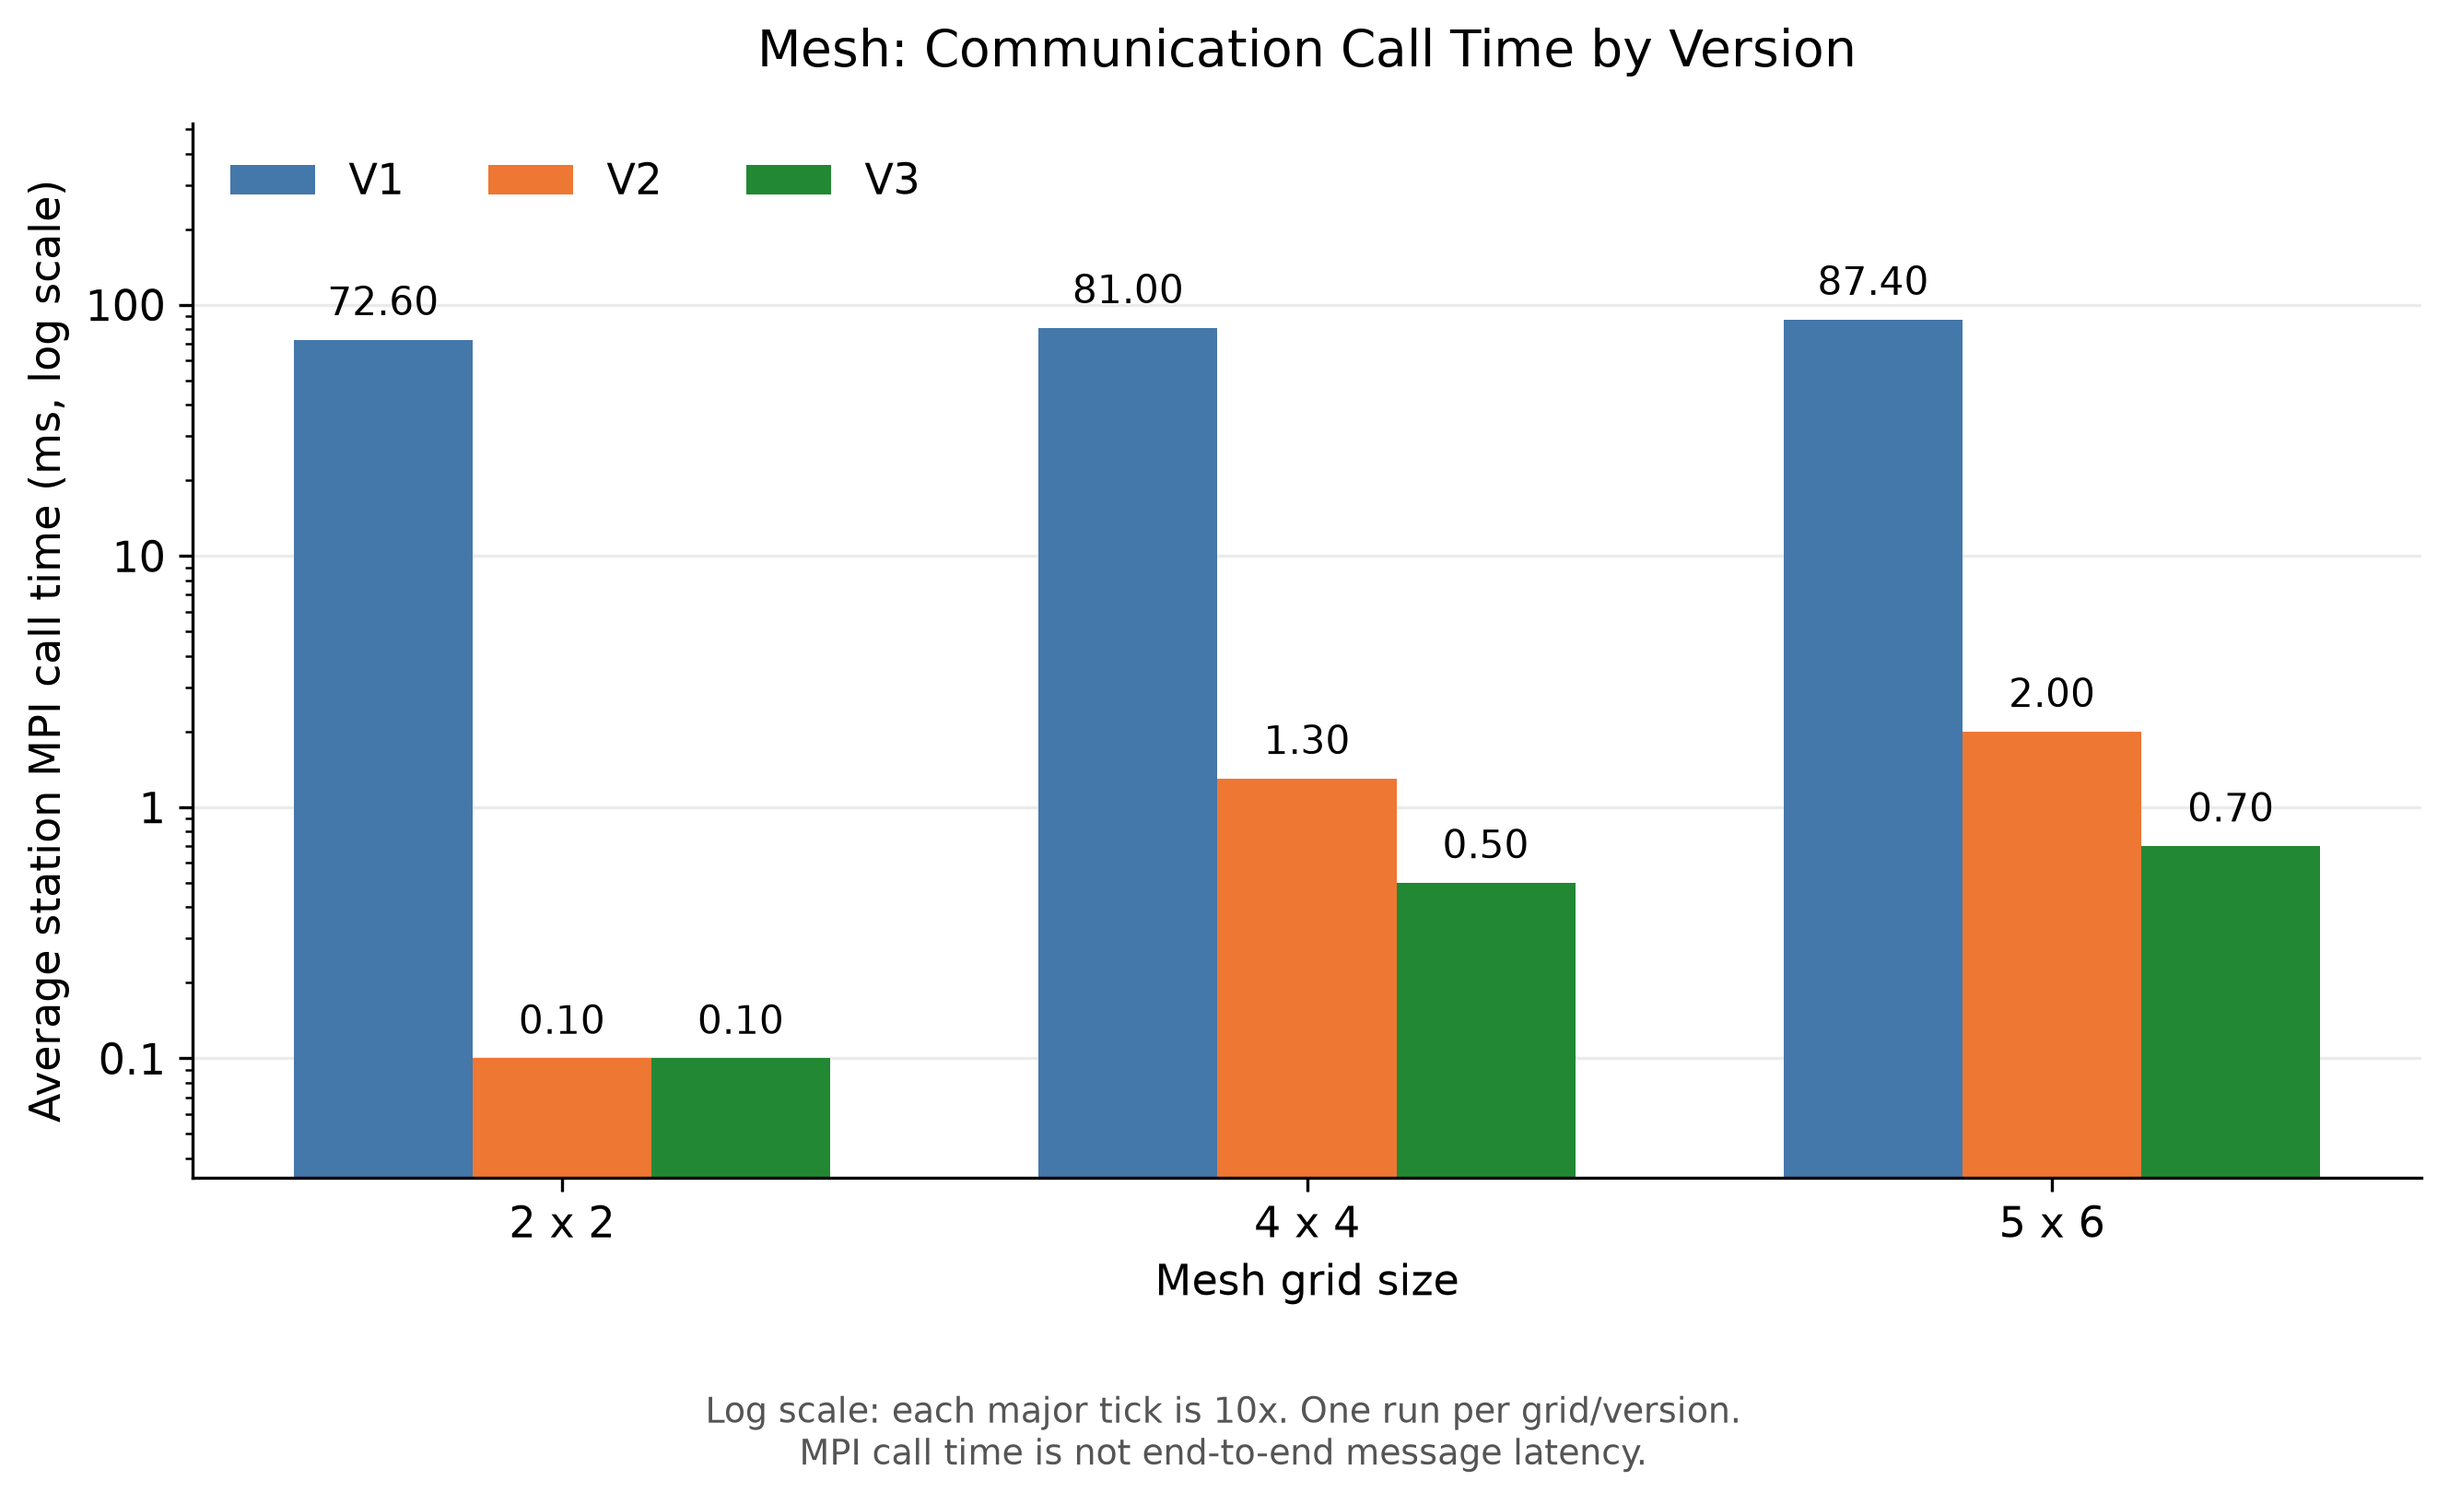
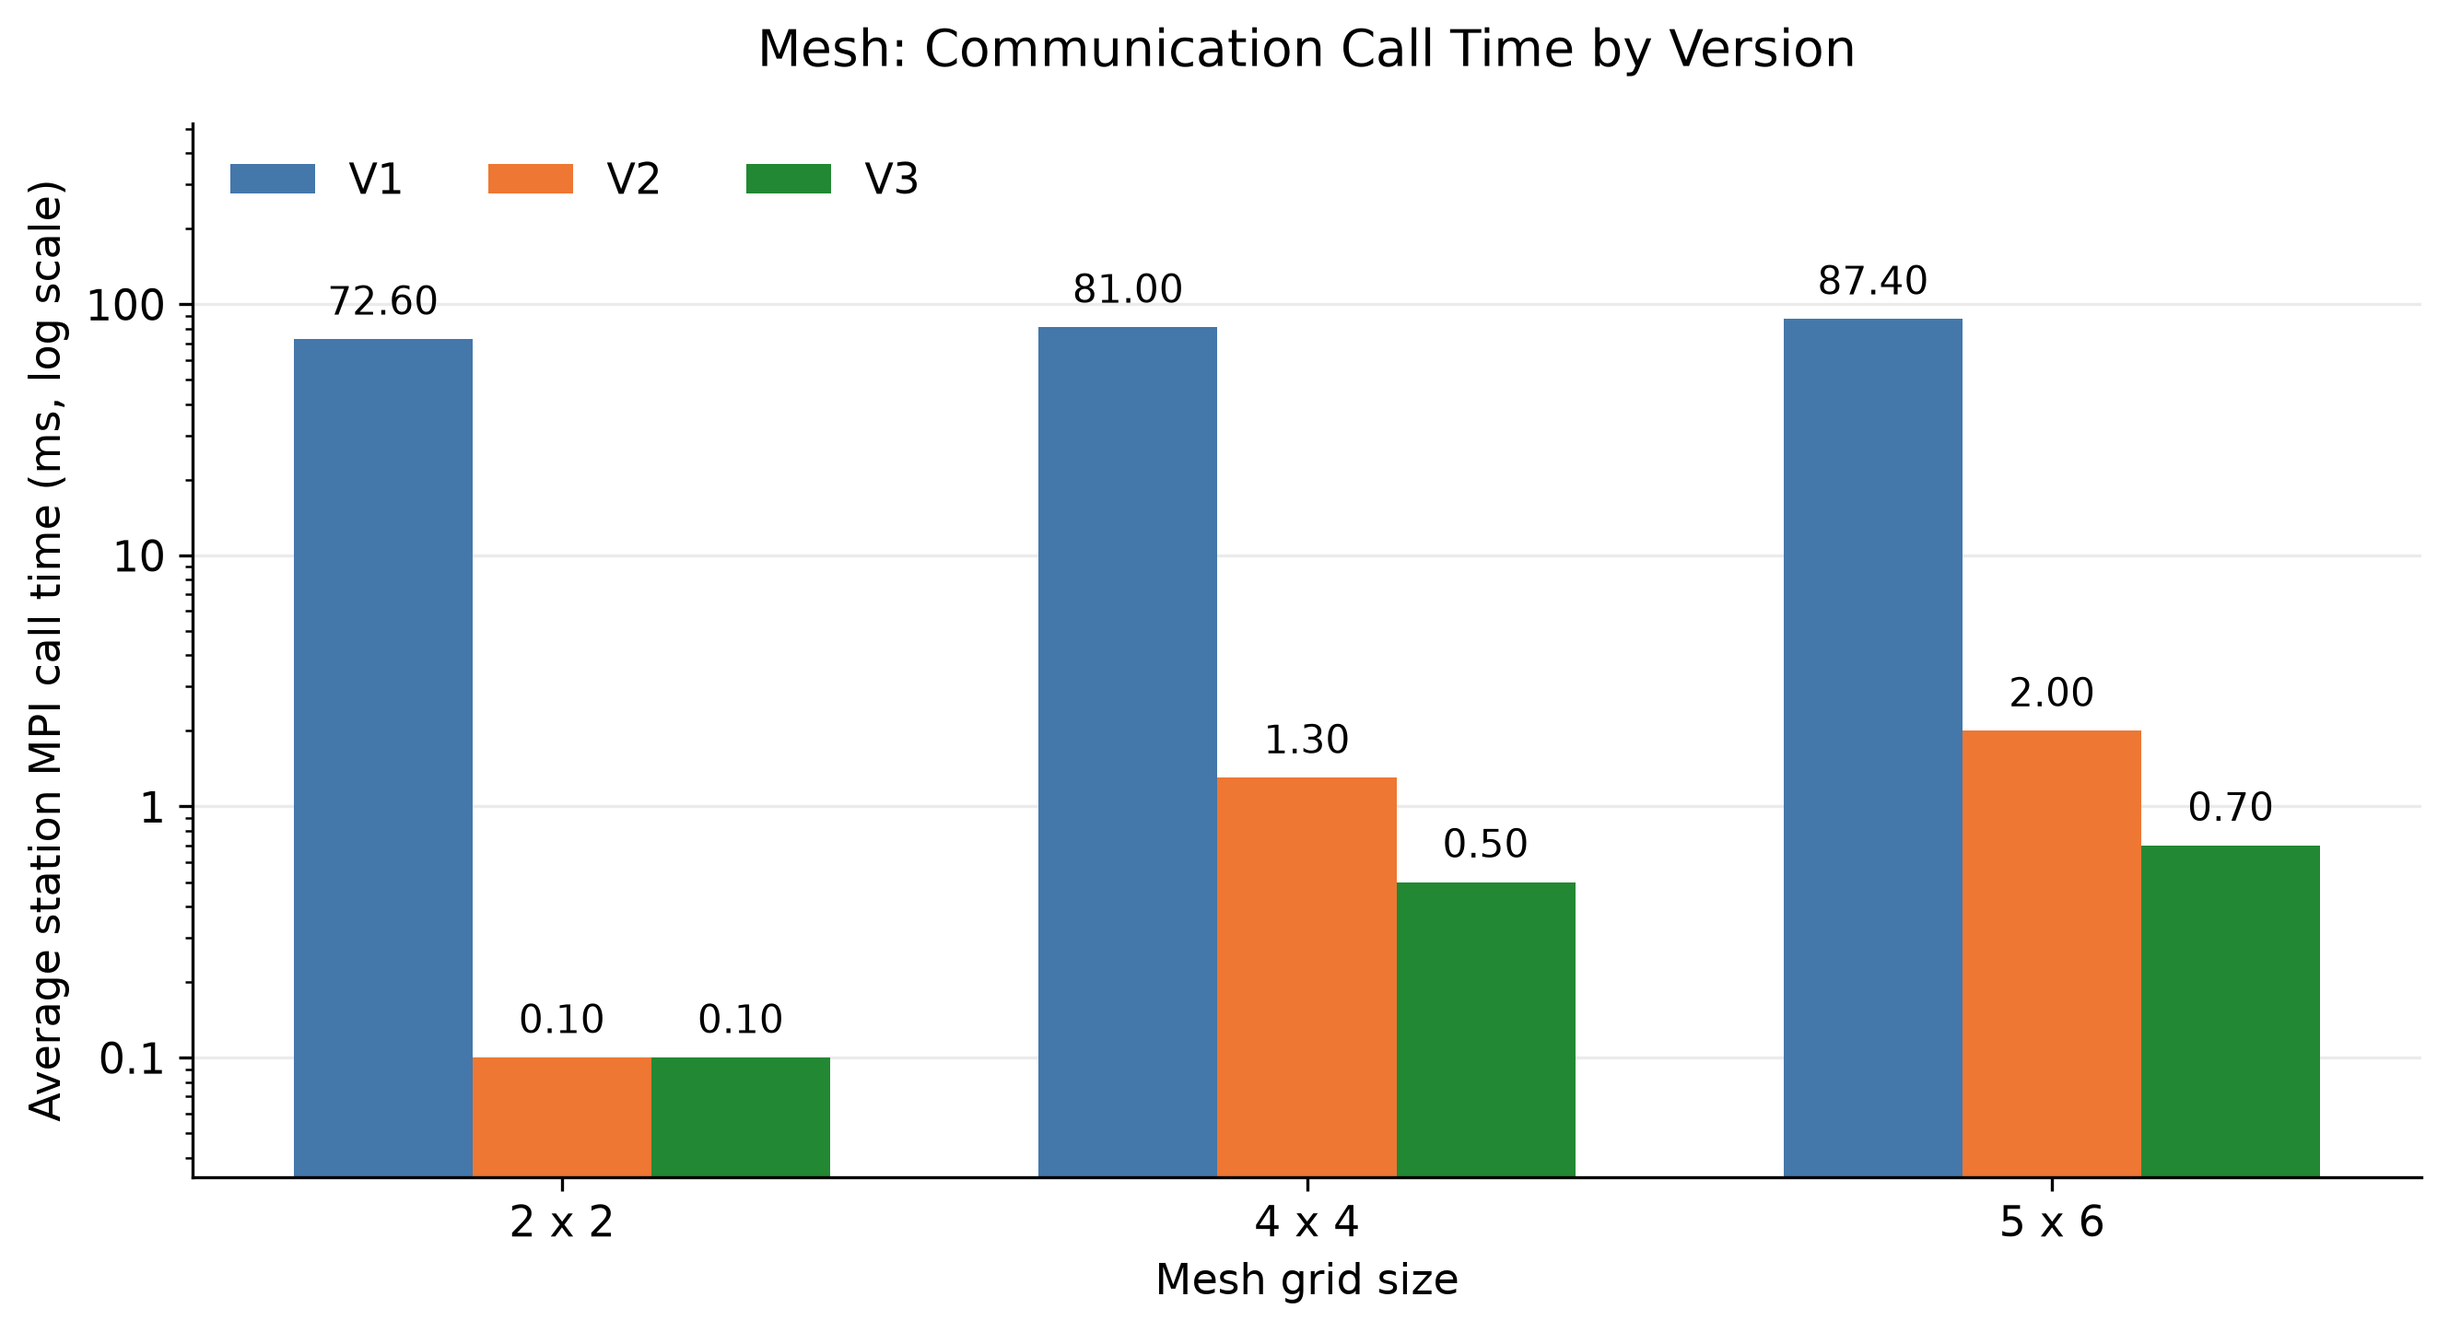
update

diff --git a/Lab 03/final/task3_caas_upload/plot_comm_task1_task2/plot_comm.py b/Lab 03/final/task3_caas_upload/plot_comm_task1_task2/plot_comm.py
@@ -73,8 +73,6 @@ def main():
     ax.grid(axis="y", alpha=0.25)
     ax.spines[["top", "right"]].set_visible(False)
     ax.legend(ncol=3, frameon=False, loc="upper left")
-    fig.text(0.5, 0.025, "Log scale: each major tick is 10x. One run per grid/version.\nMPI call time is not end-to-end message latency.",
-             ha="center", fontsize=9, color="#555555")
     fig.tight_layout(rect=(0, 0.10, 1, 1))
     fig.savefig(output / "comm_comparison.png", dpi=300, bbox_inches="tight")
     fig.savefig(output / "comm_comparison.pdf", bbox_inches="tight")
